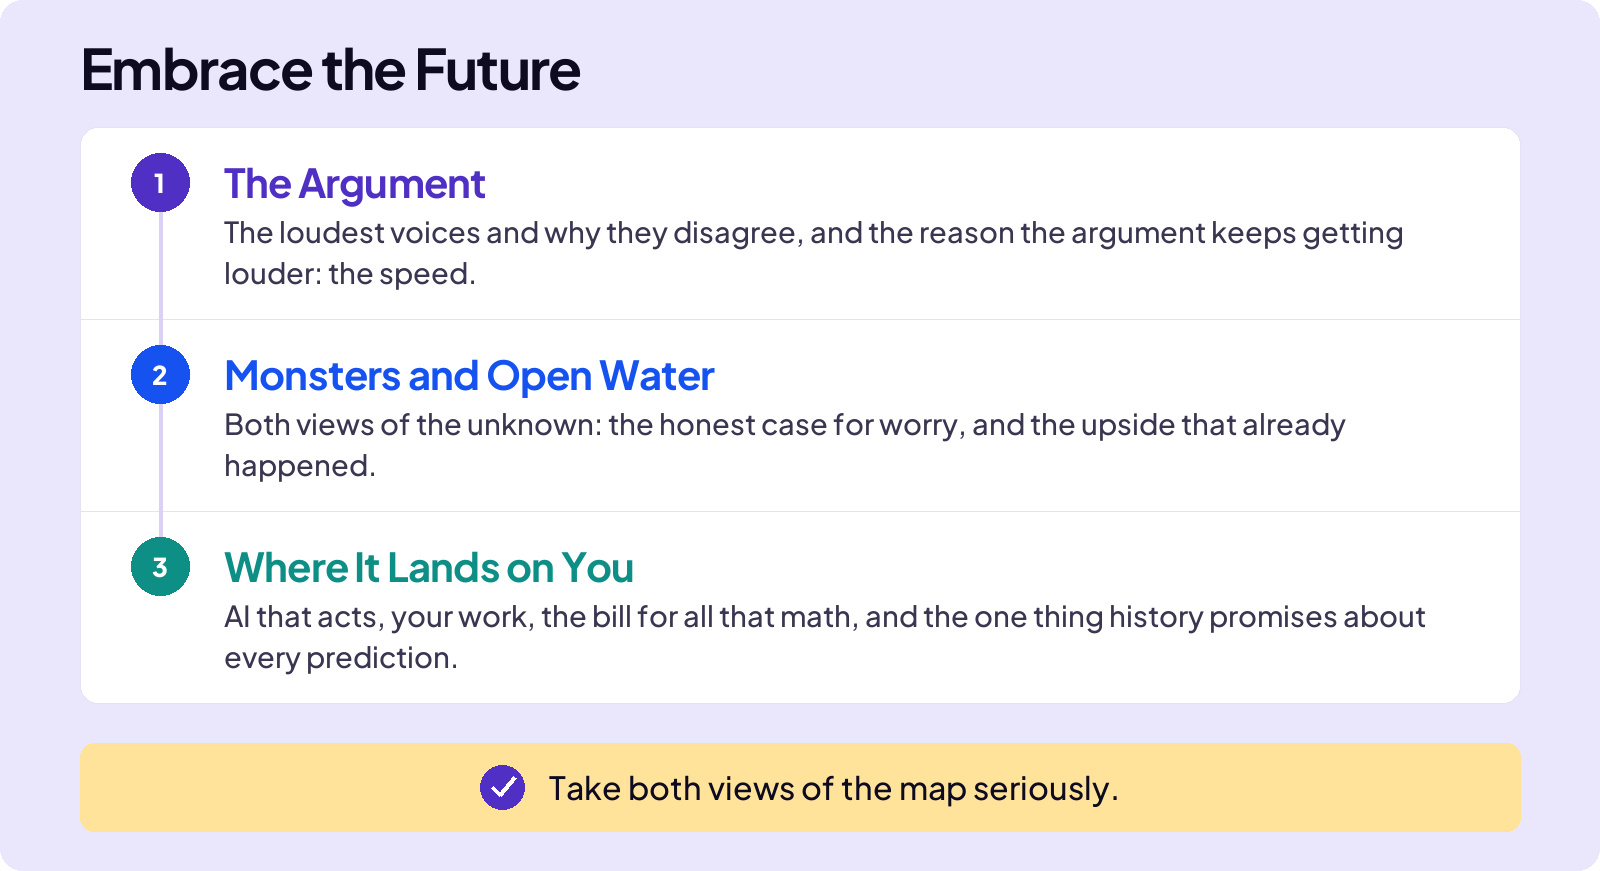
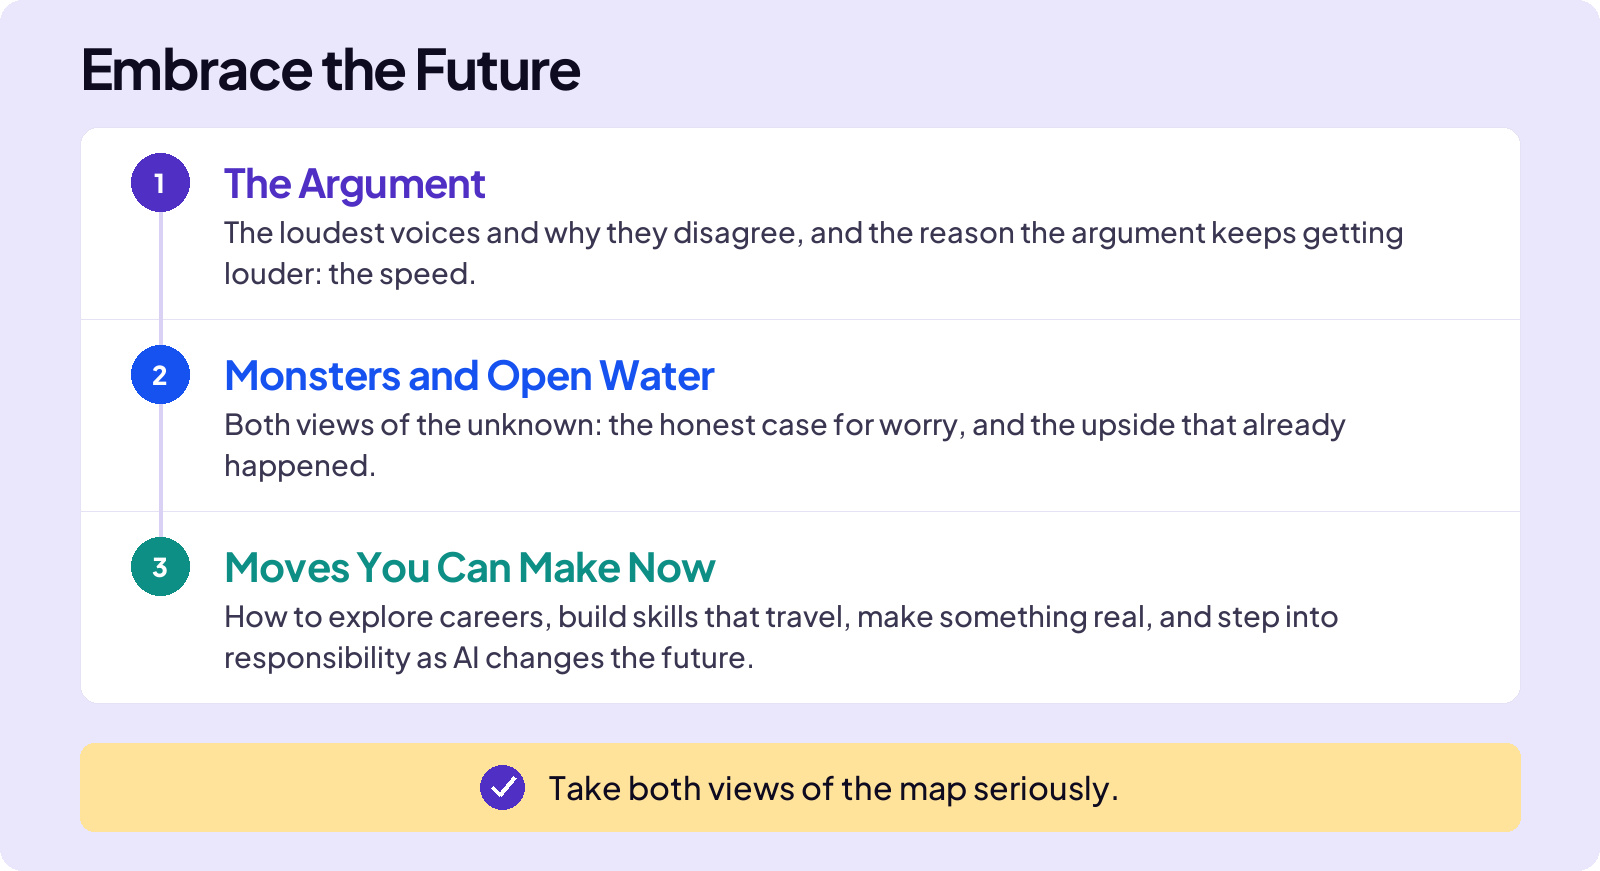
Rename Embrace opener third group to Moves You Can Make Now
New kicker and bridge (careers, portable skills, making something real,
stepping into responsibility) replace "Where It Lands on You" in the
opener, its section-map board, lesson MD, and the map render script;
board cache-buster bumped.

Changed region(s): [[0.125, 0.62, 0.875, 0.775]]

diff --git a/index.html b/index.html
@@ -11138,7 +11138,7 @@ function OpenerRealWorldSection(props) {
       eyebrow: "In this section",
       title: "Embrace the Future"
     },
-    sectionOverviewBoard: "illustrations/opener-embrace-section-map.jpg?v=20260829opener2",
+    sectionOverviewBoard: "illustrations/opener-embrace-section-map.jpg?v=20260829opener3",
     groups: [
       {
         kicker: "The Argument",
@@ -11149,8 +11149,8 @@ function OpenerRealWorldSection(props) {
         bridge: "Both views of the unknown: the honest case for worry, and the upside that already happened."
       },
       {
-        kicker: "Where It Lands on You",
-        bridge: "AI that acts, your work, the bill for all that math, and the one thing history promises about every prediction."
+        kicker: "Moves You Can Make Now",
+        bridge: "How to explore careers, build skills that travel, make something real, and step into responsibility as AI changes the future."
       }
     ],
     nextLessonId: "whatpeoplesay",

diff --git a/scripts/video/render_opener_section_maps.py b/scripts/video/render_opener_section_maps.py
@@ -112,7 +112,7 @@ BOARDS = (
         rows=(
             Row("The Argument", "The loudest voices and why they disagree, and the reason the argument keeps getting louder: the speed."),
             Row("Monsters and Open Water", "Both views of the unknown: the honest case for worry, and the upside that already happened."),
-            Row("Where It Lands on You", "AI that acts, your work, the bill for all that math, and the one thing history promises about every prediction."),
+            Row("Moves You Can Make Now", "How to explore careers, build skills that travel, make something real, and step into responsibility as AI changes the future."),
         ),
         page_output="illustrations/opener-embrace-section-map.jpg",
         prep_output="lessons/opener-embrace-2-map.jpg",

diff --git a/lessons/Opener-Embrace.md b/lessons/Opener-Embrace.md
@@ -36,7 +36,7 @@ In this section
 
 1. THE ARGUMENT First, the loudest voices and why they disagree, and the reason the argument keeps getting louder: the speed.
 2. MONSTERS AND OPEN WATER Then, both views of the unknown: the honest case for worry, and the upside that already happened.
-3. WHERE IT LANDS ON YOU Then, where it all lands: AI that acts, your work, the bill for all that math, and the one thing history promises about every prediction.
+3. MOVES YOU CAN MAKE NOW How to explore careers, build skills that travel, make something real, and step into responsibility as AI changes the future.
 Nobody has a map of what’s coming.
 
 You’re ready to sail into the blank space.
